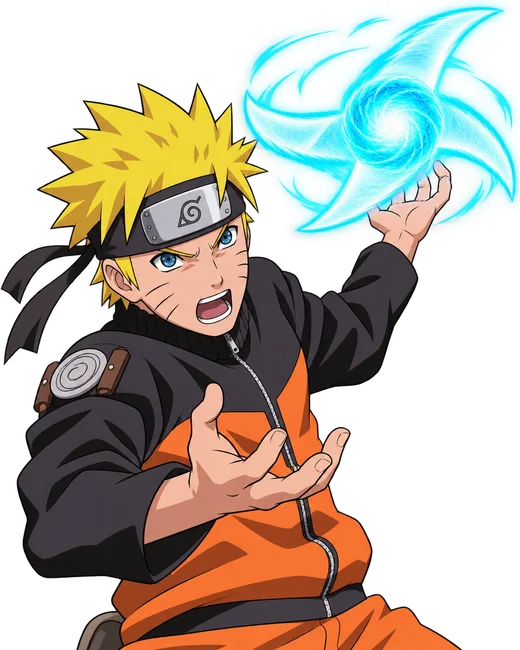
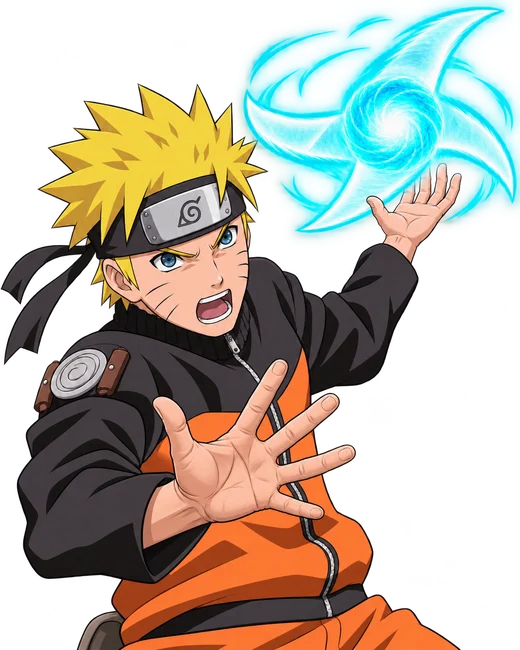
1

diff --git a/services/web-development/landing/index.html b/services/web-development/landing/index.html
@@ -13,7 +13,7 @@
   <link rel="stylesheet" href="../../../assets/services.css?v=22">
   <link rel="stylesheet" href="../../../assets/web-development.css?v=33">
   <script type="application/ld+json">{"@context":"https://schema.org","@type":"BreadcrumbList","itemListElement":[{"@type":"ListItem","position":1,"name":"Главная","item":"/"},{"@type":"ListItem","position":2,"name":"Услуги","item":"/services/"},{"@type":"ListItem","position":3,"name":"Разработка сайтов","item":"/services/web-development/"},{"@type":"ListItem","position":4,"name":"Лендинг","item":"/services/web-development/landing/"}]}</script>
-  <link rel="stylesheet" href="../../../assets/landing-screen.css?v=1">
+  <link rel="stylesheet" href="../../../assets/landing-screen.css?v=2">
 </head>
 <body class="services-page landing-page">
   <div class="viewport services-viewport">
@@ -72,7 +72,7 @@
             <span class="rasen-pill">修業の手順 ↓</span>
           </div>
           <div class="rasen-character">
-            <img src="../../../assets/web-development/rasenshuriken-naruto.webp" alt="" width="520" height="650" decoding="async" />
+            <img src="../../../assets/web-development/rasenshuriken-naruto.webp?v=2" alt="" width="520" height="650" decoding="async" />
             <i class="rasen-orbit"></i>
           </div>
         </div>
@@ -80,17 +80,17 @@
           <strong class="rasen-section-title">修業の手順</strong>
           <ol class="rasen-steps">
             <li>
-              <div class="rasen-step-art"><span>壱</span><i class="rasen-wind"></i></div>
+              <div class="rasen-step-art"><span>壱</span><img class="rasen-chakra rasen-wind" src="../../../assets/web-development/rasen-wind.webp" alt="" width="100" height="100" decoding="async" /></div>
               <strong>風を練る</strong>
               <p>風の性質を持つチャクラを練る。</p>
             </li>
             <li>
-              <div class="rasen-step-art"><span>弐</span><i class="rasen-orb"></i></div>
+              <div class="rasen-step-art"><span>弐</span><img class="rasen-chakra rasen-orb" src="../../../assets/web-development/rasen-orb.webp" alt="" width="100" height="100" decoding="async" /></div>
               <strong>螺旋丸を作る</strong>
               <p>チャクラを手のひらで回転させ、球を保つ。</p>
             </li>
             <li>
-              <div class="rasen-step-art"><span>参</span><i class="rasen-blade"></i></div>
+              <div class="rasen-step-art"><span>参</span><img class="rasen-chakra rasen-blade" src="../../../assets/web-development/rasen-blade.webp" alt="" width="100" height="100" decoding="async" /></div>
               <strong>風を重ねる</strong>
               <p>影分身と協力し、風を加えて刃を形作る。</p>
             </li>
@@ -102,7 +102,7 @@
             <strong class="rasen-section-title">風遁・<br />螺旋手裏剣</strong>
             <p>螺旋丸に風の性質変化を組み込んだ術。</p>
           </div>
-          <i class="rasen-blade"></i>
+          <img class="rasen-chakra rasen-blade" src="../../../assets/web-development/rasen-blade.webp" alt="" width="100" height="100" decoding="async" />
         </div>
         <div class="rasen-footer"><strong>木ノ葉忍術帖</strong><span>ナルトの修業記録</span></div>
       </div>

diff --git a/assets/landing-screen.css b/assets/landing-screen.css
@@ -188,7 +188,7 @@
 .rasen-step-art {
   position: relative;
   display: grid;
-  height: 87px;
+  height: 104px;
   place-items: center;
 }
 
@@ -213,33 +213,23 @@
   line-height: 1.45;
 }
 
-.rasen-wind,
-.rasen-orb,
-.rasen-blade {
+.rasen-chakra {
   display: block;
-  width: 64px;
+  width: 100px;
+  height: auto;
   aspect-ratio: 1;
-  animation: rasen-spin 6s linear infinite;
+  object-fit: contain;
+  filter: drop-shadow(0 4px 5px #15286136);
+  animation: rasen-spin 7s linear infinite;
 }
 
 .rasen-wind {
-  border: 7px solid transparent;
-  border-top-color: #6a260b;
-  border-right-color: #6a260b;
-  border-radius: 50%;
-  box-shadow: inset 0 0 0 3px #fff8de;
+  animation-duration: 9s;
 }
 
 .rasen-orb {
-  border-radius: 50%;
-  background: radial-gradient(circle at 35% 25%, #fff 0%, #a4f3ff 17%, transparent 38%),
-    repeating-conic-gradient(#136ee9 0deg, #d2f9ff 42deg, #136ee9 70deg);
-  box-shadow: 0 0 12px #246cf2a6;
-}
-
-.rasen-blade {
-  background: radial-gradient(circle, #fff 0%, #53e4ff 21%, #3d8dff 40%, #e7faff 75%);
-  clip-path: polygon(50% 31%, 93% 0, 69% 47%, 100% 93%, 53% 69%, 7% 100%, 31% 53%, 0 7%);
+  animation-direction: reverse;
+  animation-duration: 5s;
 }
 
 .rasen-finale {
@@ -259,8 +249,9 @@
 }
 
 .rasen-finale .rasen-blade {
-  width: 184px;
+  width: 205px;
   justify-self: center;
+  filter: drop-shadow(0 0 12px #53dfff88);
   animation-duration: 7.5s;
 }
 
